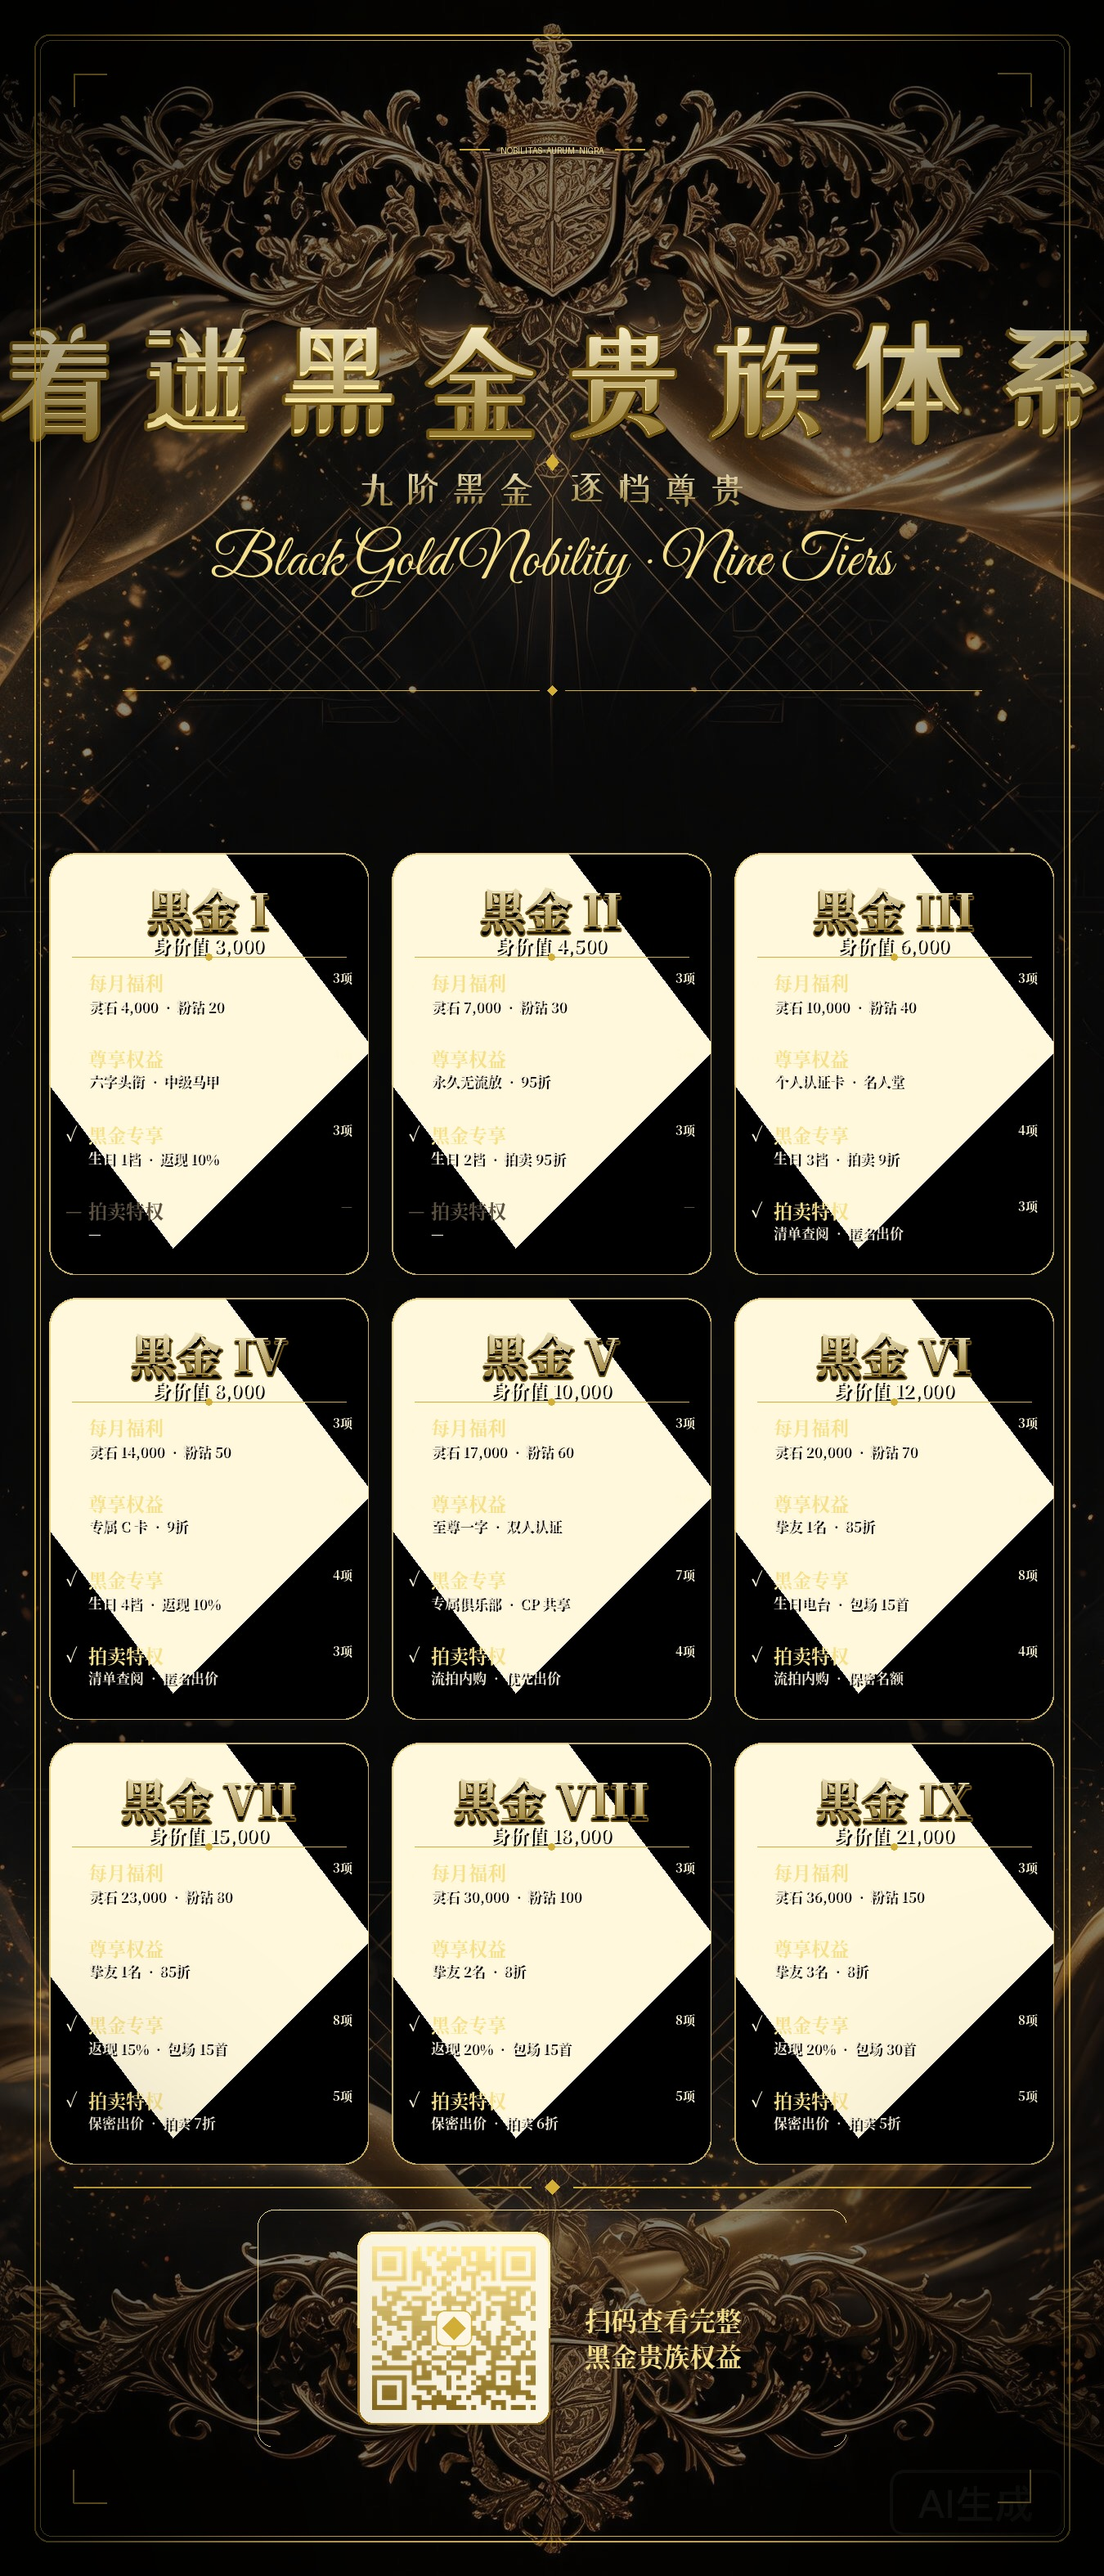
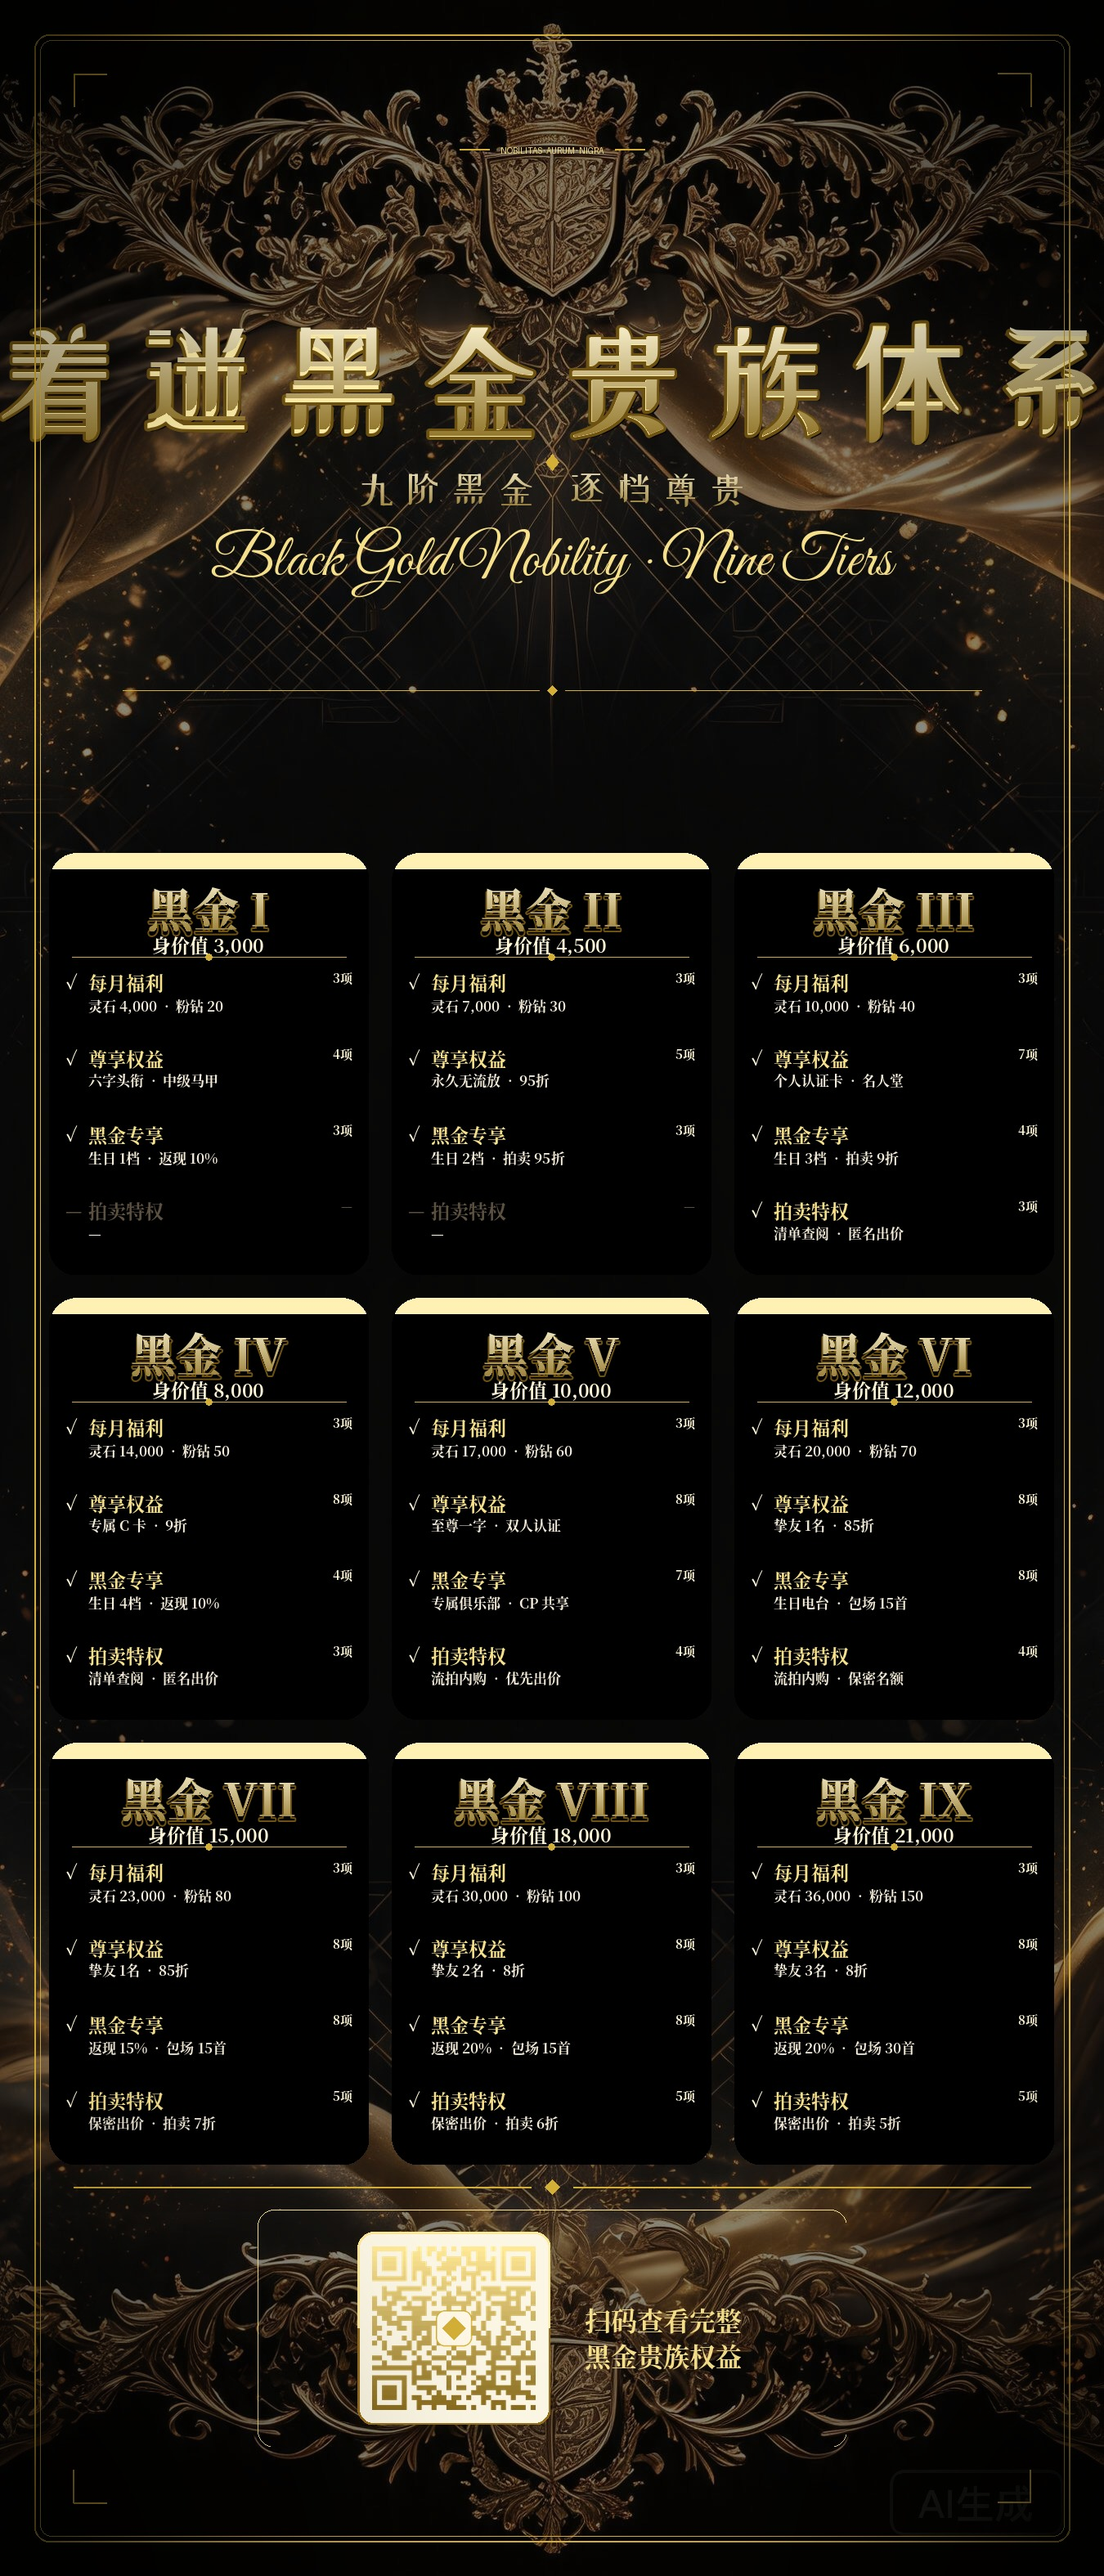
refactor: 彻底重写卡片渲染——干净高透玻璃（去模糊，纯色底+扫光+金边+内缘高光）

Changed region(s): [[0.0311, 0.3111, 0.9644, 0.84]]

diff --git a/make_poster.py b/make_poster.py
@@ -258,46 +258,32 @@ def card_pos(i):
     return x,y
 
 def glass_card(x,y,w,h,i):
-    """高级感纯色玻璃卡片：毛玻璃底（背景模糊）+ 纯色遮罩 + 左上扫光 + 极简金边"""
+    """高透玻璃卡片：干净纯色底 + 左上扫光 + 金边 + 内缘高光"""
     R=34  # 圆角
 
-    # ===== 1. 柔和下投影（悬浮感）=====
-    sh=60
-    shadow=Image.new('RGBA',(w+60,h+120),(0,0,0,0))
+    # ===== 1. 底投影（干净，卡片正下方，不脏）=====
+    sh=48
+    shadow=Image.new('RGBA',(w+20,h+sh+10),(0,0,0,0))
     sd=ImageDraw.Draw(shadow)
-    sd.rounded_rectangle((30,h-6,w+30,h+sh),radius=R,fill=(0,0,0,75))
-    shadow=shadow.filter(ImageFilter.GaussianBlur(22))
-    smask=shadow.getchannel('A').copy()
-    ImageDraw.Draw(smask).rectangle((0,0,w+60,h+6),fill=0)
-    shadow.putalpha(smask)
-    canvas.alpha_composite(shadow,(x-30,y))
+    sd.rounded_rectangle((10,h,w+10,h+sh),radius=R,fill=(0,0,0,50))
+    shadow=shadow.filter(ImageFilter.GaussianBlur(14))
+    canvas.alpha_composite(shadow,(x-10,y))
 
-    # ===== 2. 毛玻璃底：裁剪背景 → 高斯模糊 → 圆角遮罩 =====
-    # 先把 canvas 转 RGB 裁剪（避免 alpha 通道问题），再转回来
-    pad=8  # 扩展裁剪区域，避免模糊边缘伪影
-    bx0=max(0,x-pad); by0=max(0,y-pad)
-    bx1=min(canvas.width,x+w+pad); by1=min(canvas.height,y+h+pad)
-    # 裁剪 canvas 已有内容（此时背景图已画好）
-    canvas_rgb=canvas.convert('RGB')
-    bg_crop=canvas_rgb.crop((bx0,by0,bx1,by1))
-    # 高斯模糊 → 磨砂玻璃效果
-    blur=bg_crop.filter(ImageFilter.GaussianBlur(12))
-    # 转回 RGBA 并裁剪到精确卡片区域
-    blur_rgba=blur.convert('RGBA')
-    inner=blur_rgba.crop((x-bx0,y-by0,x-bx0+w,y-by0+h))
-    # 圆角遮罩
+    # ===== 2. 干净纯色底（深炭灰半透，背景清晰透出）=====
+    base=Image.new('RGBA',(w,h),(0,0,0,0))
+    bd=ImageDraw.Draw(base)
+    # 垂直极微渐变：顶部稍深，底部稍亮（3D 立体感）
+    for yy in range(h):
+        tt=yy/max(h-1,1)
+        a=int(85-12*tt)        # alpha 85→73，半透让背景图案干净透出
+        r=int(20+10*tt); g=int(16+8*tt); b=int(24+12*tt)
+        bd.line([(0,yy),(w,yy)],fill=(r,g,b,a))
     rmask=Image.new('L',(w,h),0)
     ImageDraw.Draw(rmask).rounded_rectangle((0,0,w,h),radius=R,fill=255)
-    inner.putalpha(rmask)
-    canvas.alpha_composite(inner,(x,y))
+    base.putalpha(rmask)
+    canvas.alpha_composite(base,(x,y))
 
-    # ===== 3. 纯色遮罩（统一纯色，高级感，让文字可读）=====
-    tint=Image.new('RGBA',(w,h),(0,0,0,0))
-    td=ImageDraw.Draw(tint)
-    td.rounded_rectangle((0,0,w,h),radius=R,fill=(12,10,16,70))  # 深紫黑，统一纯色，半透让毛玻璃透出
-    canvas.alpha_composite(tint,(x,y))
-
-    # ===== 4. 左上扫光（暖白色对角扫过，细腻水晶反光）=====
+    # ===== 3. 左上扫光（暖白色对角扫过，水晶反光）=====
     sweep=Image.new('RGBA',(w,h),(0,0,0,0))
     swd=ImageDraw.Draw(sweep)
     for yy in range(h):
@@ -306,18 +292,34 @@ def glass_card(x,y,w,h,i):
             dist=abs(yy-diag_y)
             d_norm=dist/(h*0.55)
             prog=(xx+yy)/(w+h)
-            if prog<0.70 and d_norm<1.0:
-                intensity=(1-prog/0.70)*(1-d_norm)**1.0
-                a=int(140*intensity)
+            if prog<0.72 and d_norm<1.0:
+                intensity=(1-prog/0.72)*(1-d_norm)**1.0
+                a=int(130*intensity)
                 swd.point((xx,yy),fill=(255,248,220,a))
     sweep.putalpha(rmask)
     canvas.alpha_composite(sweep,(x,y))
 
-    # ===== 5. 极简金边（2px 统一纯色，无渐变）=====
+    # ===== 4. 金边（2px，顶部微亮、底部微暗，自然立体感）=====
     border=Image.new('RGBA',(w,h),(0,0,0,0))
     bdr=ImageDraw.Draw(border)
-    bdr.rounded_rectangle((0,0,w,h),radius=R,outline=(230,200,110,220),width=2)
+    for yy in range(h):
+        tt=yy/max(h-1,1)
+        ca=int(240-tt*70)       # 顶部 240 → 底部 170
+        bdr.line([(0,yy),(w,yy)],fill=(247,224,138,ca))
+    ring=Image.new('L',(w,h),0)
+    ImageDraw.Draw(ring).rounded_rectangle((0,0,w,h),radius=R,fill=0,outline=255,width=2)
+    border.putalpha(ring)
     canvas.alpha_composite(border,(x,y))
+
+    # ===== 5. 顶部内缘高光（水晶棱边反光）=====
+    top_hl=Image.new('RGBA',(w,h),(0,0,0,0))
+    thd=ImageDraw.Draw(top_hl)
+    for yy in range(int(h*0.04)):
+        tt=yy/(h*0.04)
+        a=int(60*(1-tt)**2)
+        thd.line([(4,yy),(w-4,yy)],fill=(255,240,180,a))
+    top_hl.putalpha(rmask)
+    canvas.alpha_composite(top_hl,(x,y))
 
 for i,t in enumerate(TIERS):
     x,y=card_pos(i)
